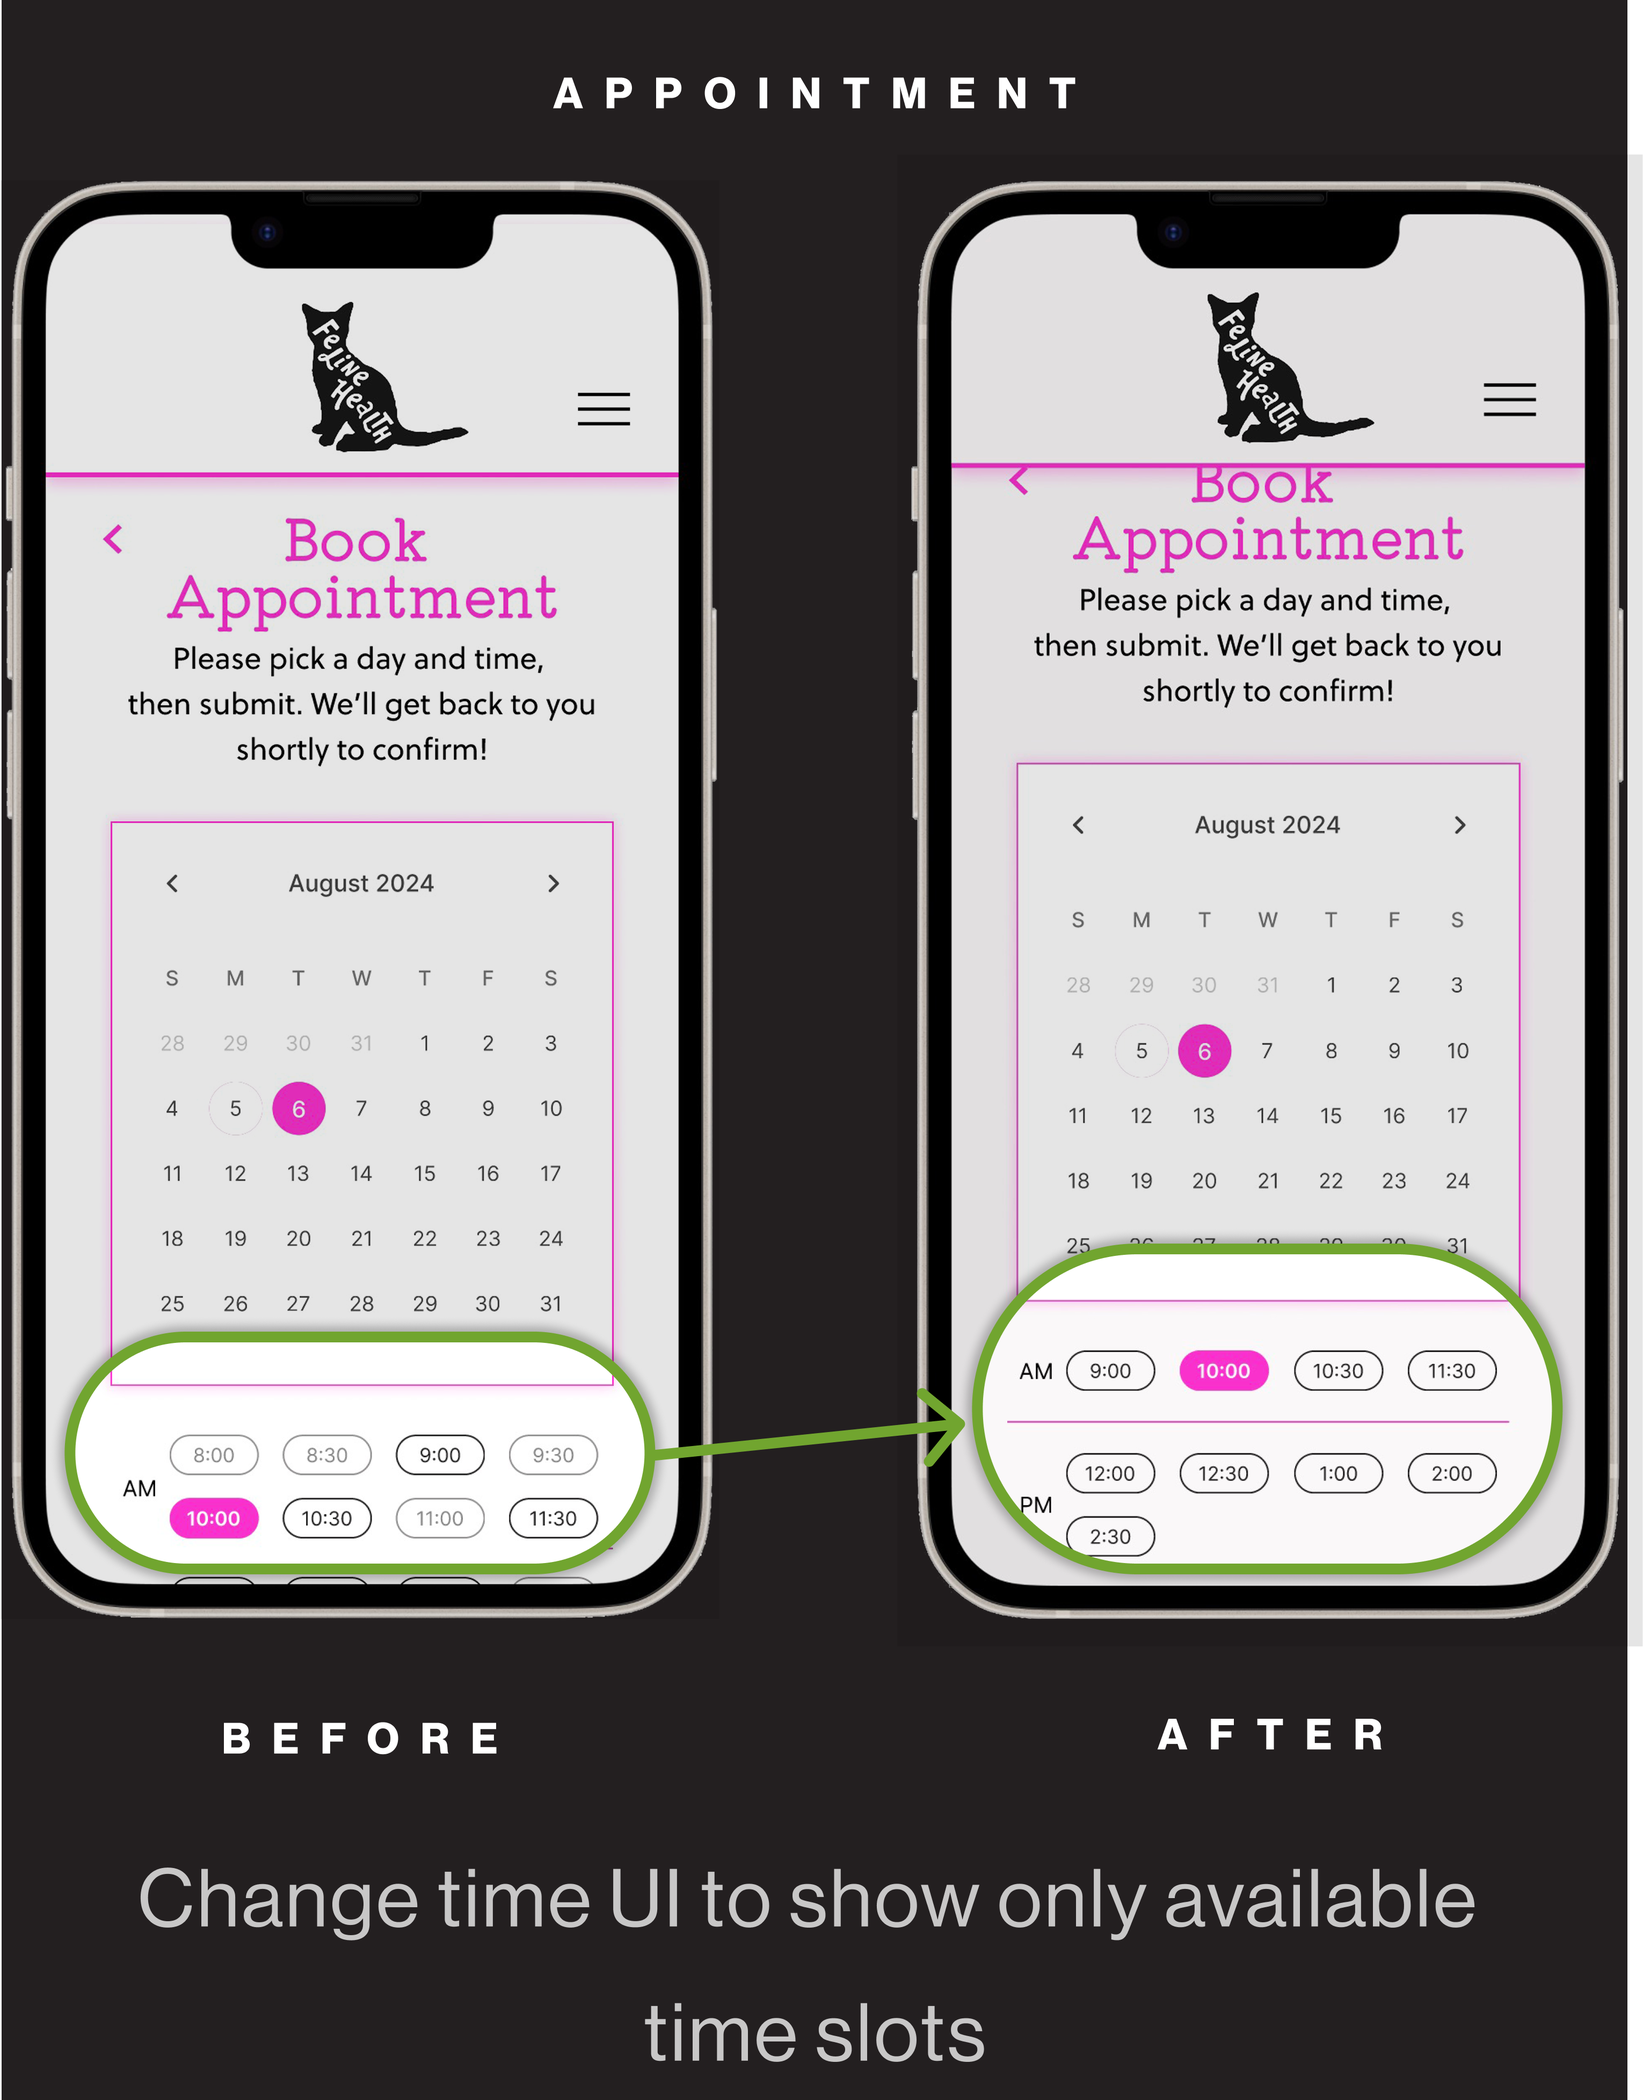
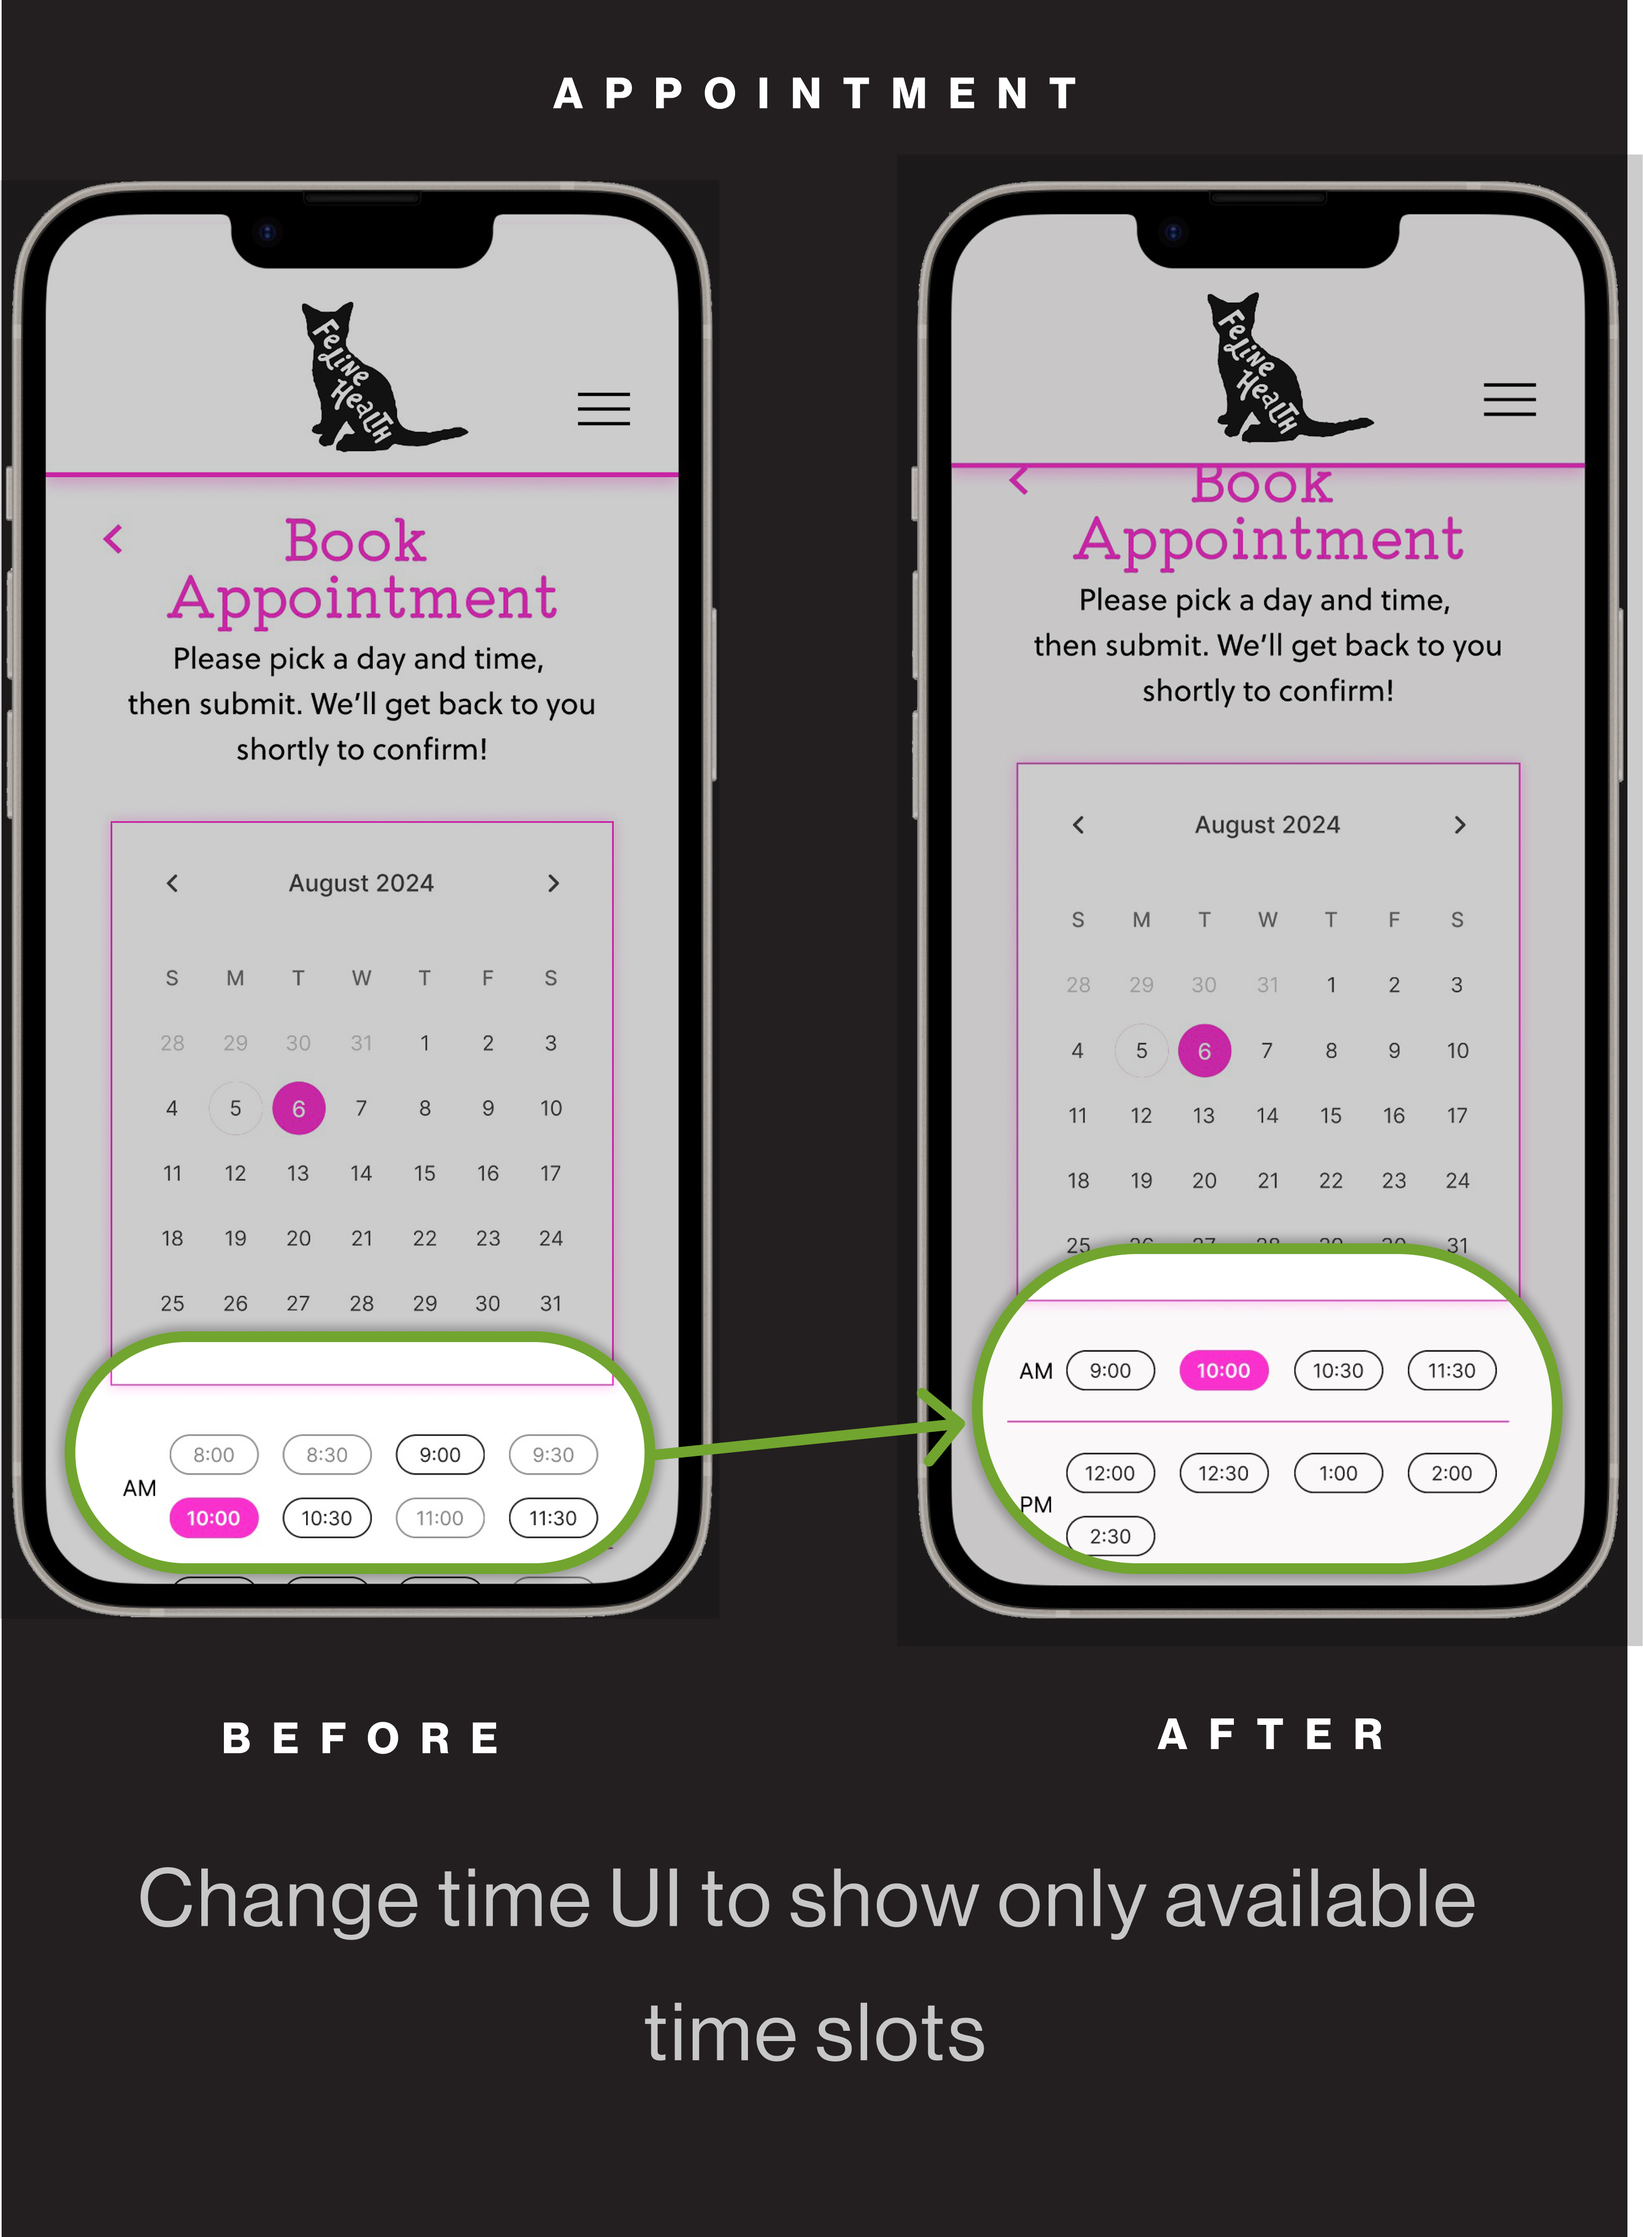
updated testing with new images

diff --git a/src/components/Fh/TestingFh.js b/src/components/Fh/TestingFh.js
@@ -3,7 +3,9 @@ import '../ReusableTesting.css'
 import desktop_home from '../../assets/fh/fh_home_desktop.png'
 import desktop_home1 from '../../assets/fh/fh_home_desktop1.png'
 import desktop_appt from '../../assets/fh/fh_appt_desktop.png'
-import mobile_home from '../../assets/fh/fh_home_mobile.png'
+import mobile_home from '../../assets/fh/fh_home_mobile5.png'
+import mobile_home2 from '../../assets/fh/fh_mobile_home2.png'
+import mobile_home1 from '../../assets/fh/fh_home_mobile4.png'
 import mobile_appt from '../../assets/fh/fh_appt_mobile.png'
 
 export const TestingFh = () => {
@@ -69,8 +71,12 @@ export const TestingFh = () => {
             <div className='Button enlarge'>iterations mobile</div>
           </div>
           <div className='ssc_testing_new fh'>
-            <img className='ssc ' src={mobile_home} alt={mobile_home} />
-            <img className='ssc ' src={mobile_appt} alt={mobile_appt} />
+            <img className='fh ' src={mobile_home} alt={mobile_home} />
+            <img className='fh ' src={mobile_home2} alt={mobile_home2} />
+          </div>
+          <div className='ssc_testing_new fh1'>
+            <img className='fh ' src={mobile_home1} alt={mobile_home1} />
+            <img className='fh' src={mobile_appt} alt={mobile_appt} />
           </div>
         </div>
       </section>

diff --git a/src/components/ReusableTesting.css b/src/components/ReusableTesting.css
@@ -41,9 +41,11 @@ margin-bottom:4rem
 
 .ssc_testing_new .fh {
   width: auto;
-  height: 50rem;
+  height: 53rem;
   object-fit: cover;
 }
+
+
 
 
 .ssc.checkout {
